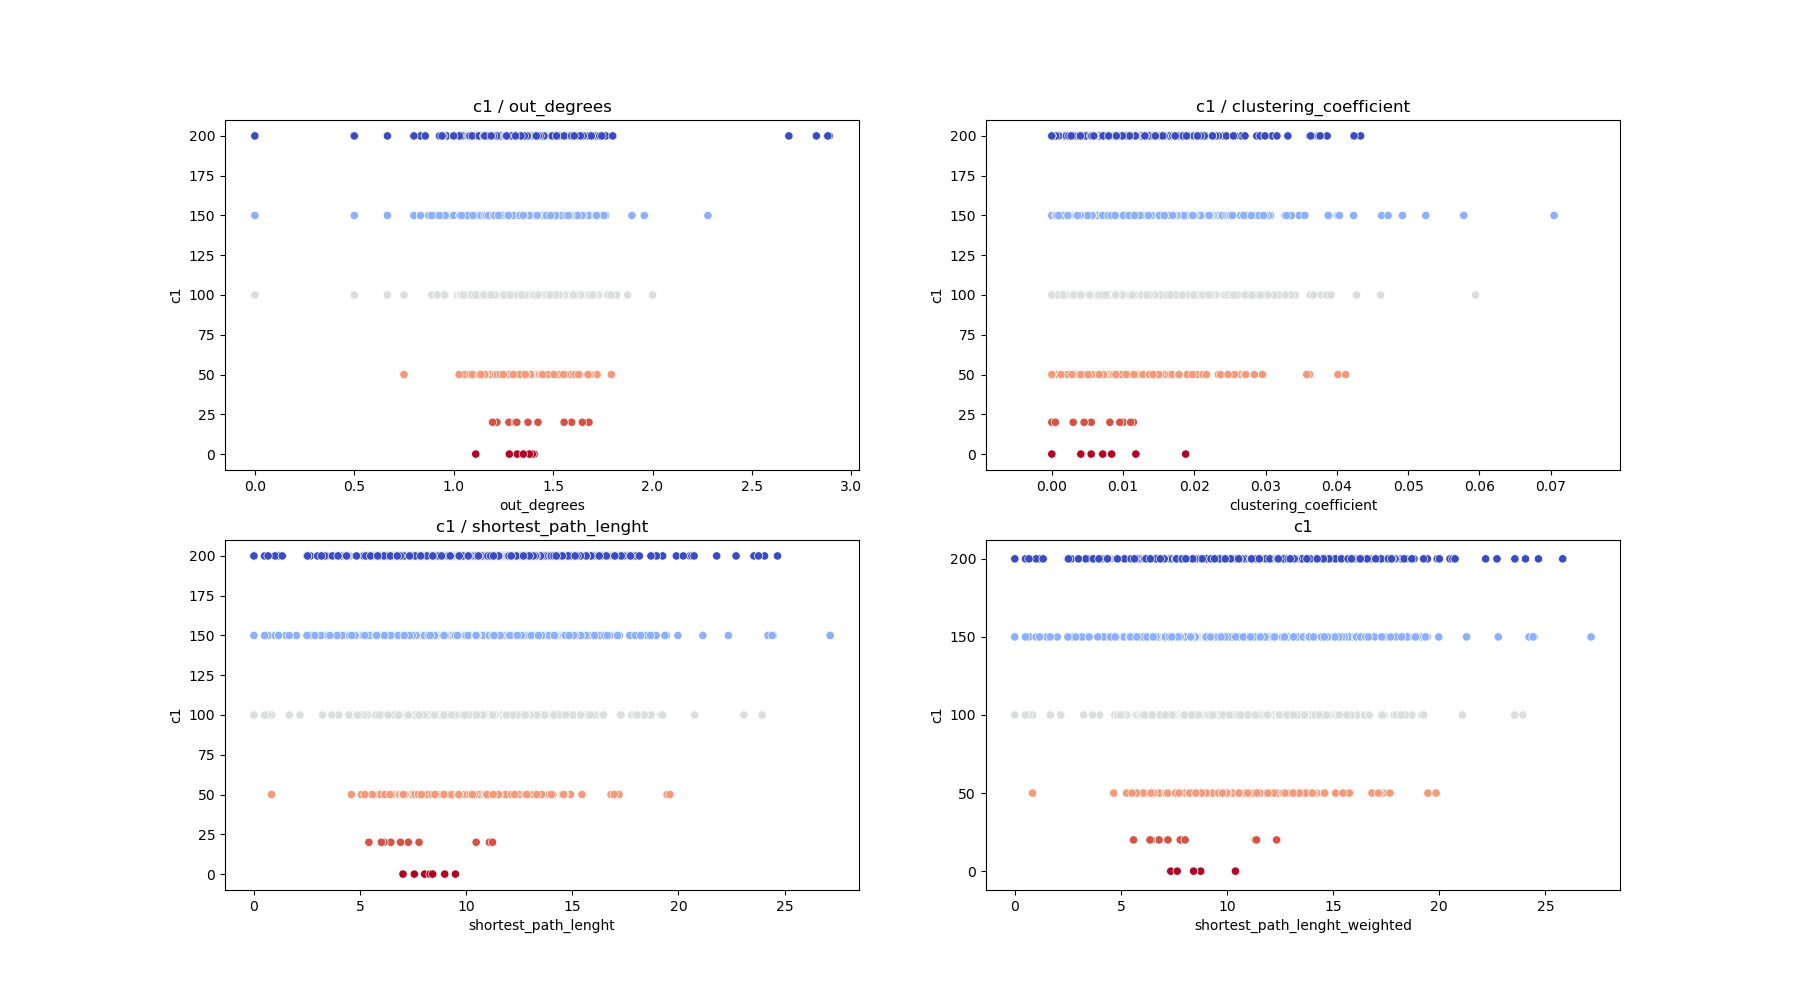
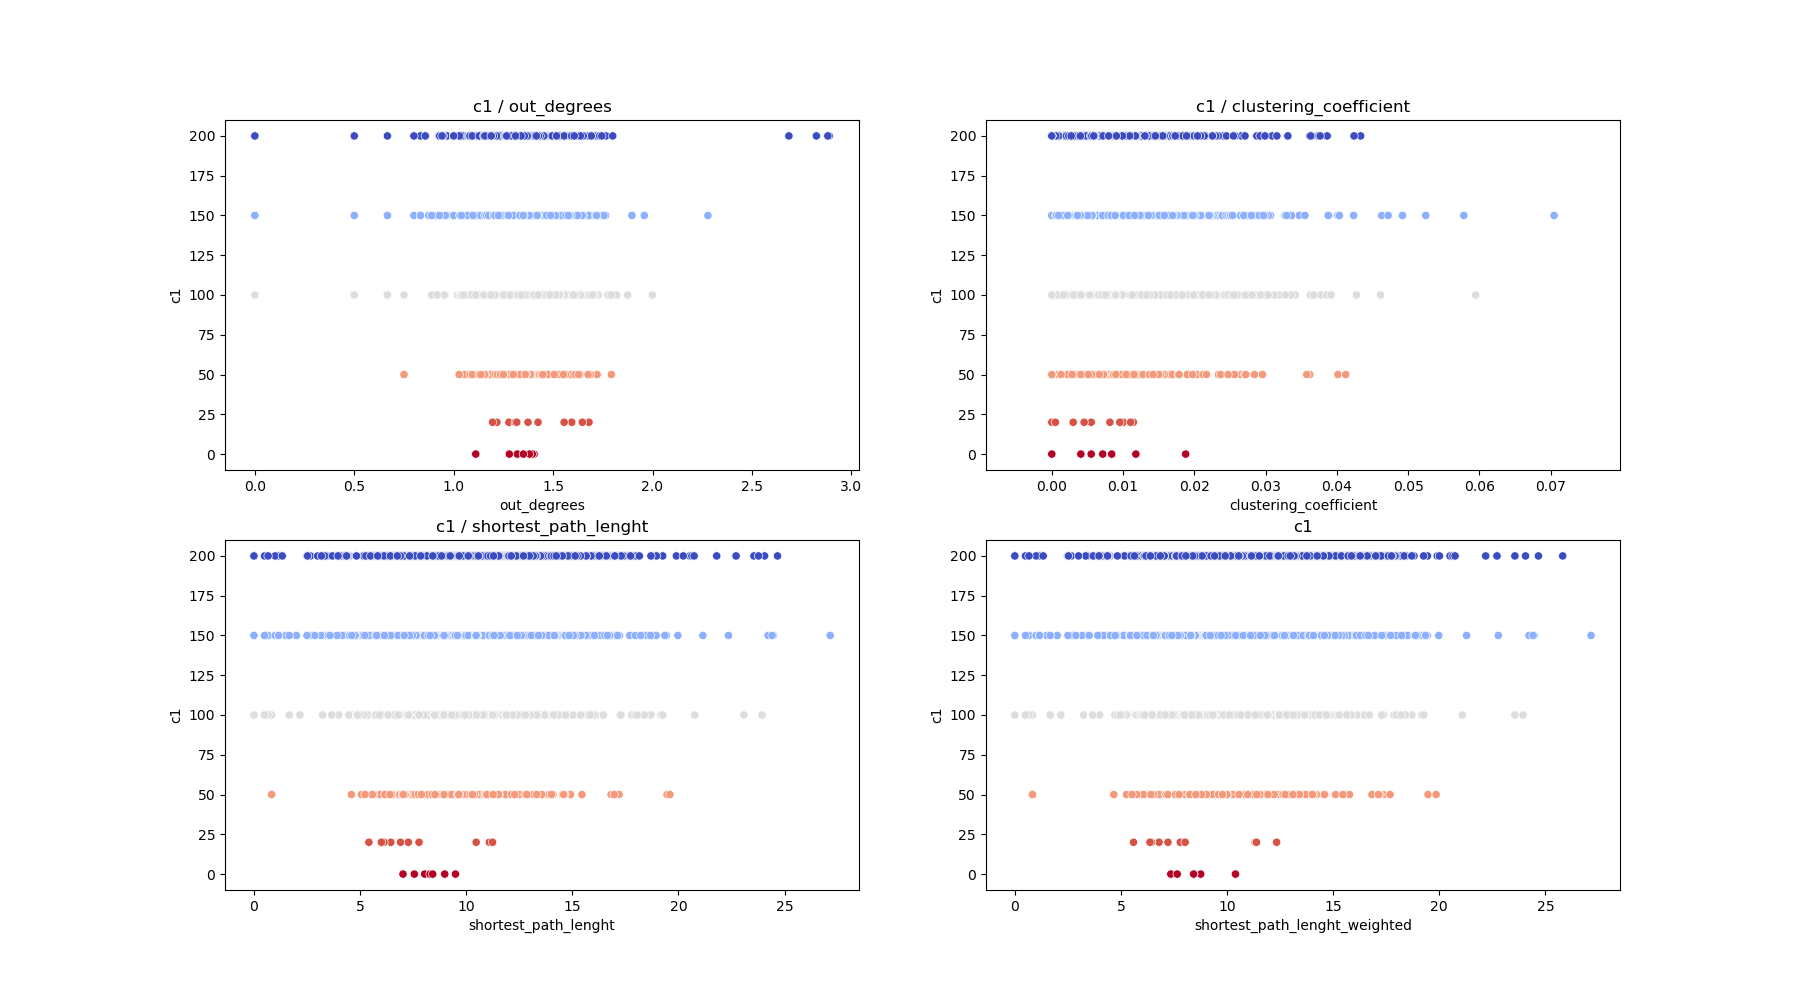
default y axis interval, font size corr

diff --git a/vizualization.py b/vizualization.py
@@ -1,17 +1,16 @@
 import pandas as pd
 import seaborn as sns
 import matplotlib.pyplot as plt
-import numpy as np
 
 df = pd.read_csv('data/network_data.csv')
 
-scores = list(df.columns[:6])
-properties = list(df.columns[6:])
-
 corr = df.corr()
-sns.heatmap(corr, annot=True, annot_kws={"fontsize":8})
+sns.heatmap(corr, annot=True, annot_kws={"fontsize":7})
 plt.title("Matriz de Correlação")
 plt.savefig("vizualization/correlation.png")
+
+scores = list(df.columns[:6])
+properties = list(df.columns[6:])
 
 for score in scores:
 
@@ -23,10 +22,6 @@ for score in scores:
         sns.scatterplot(ax=ax, data=df, x=df[prop], y=df[score], hue=df[score], palette='coolwarm_r', legend = False)
         ax.set(xlabel=prop, ylabel=score)
         ax.set_title(f'{score} / {prop}')    
-
         plt.rcParams.update({'figure.max_open_warning': 0})
         plt.title(f"{score}")
-        if score not in 'final_score':
-            plt.yticks(np.arange(0, 201, 50))
-
         fig.savefig(f"vizualization/{score}.png")
